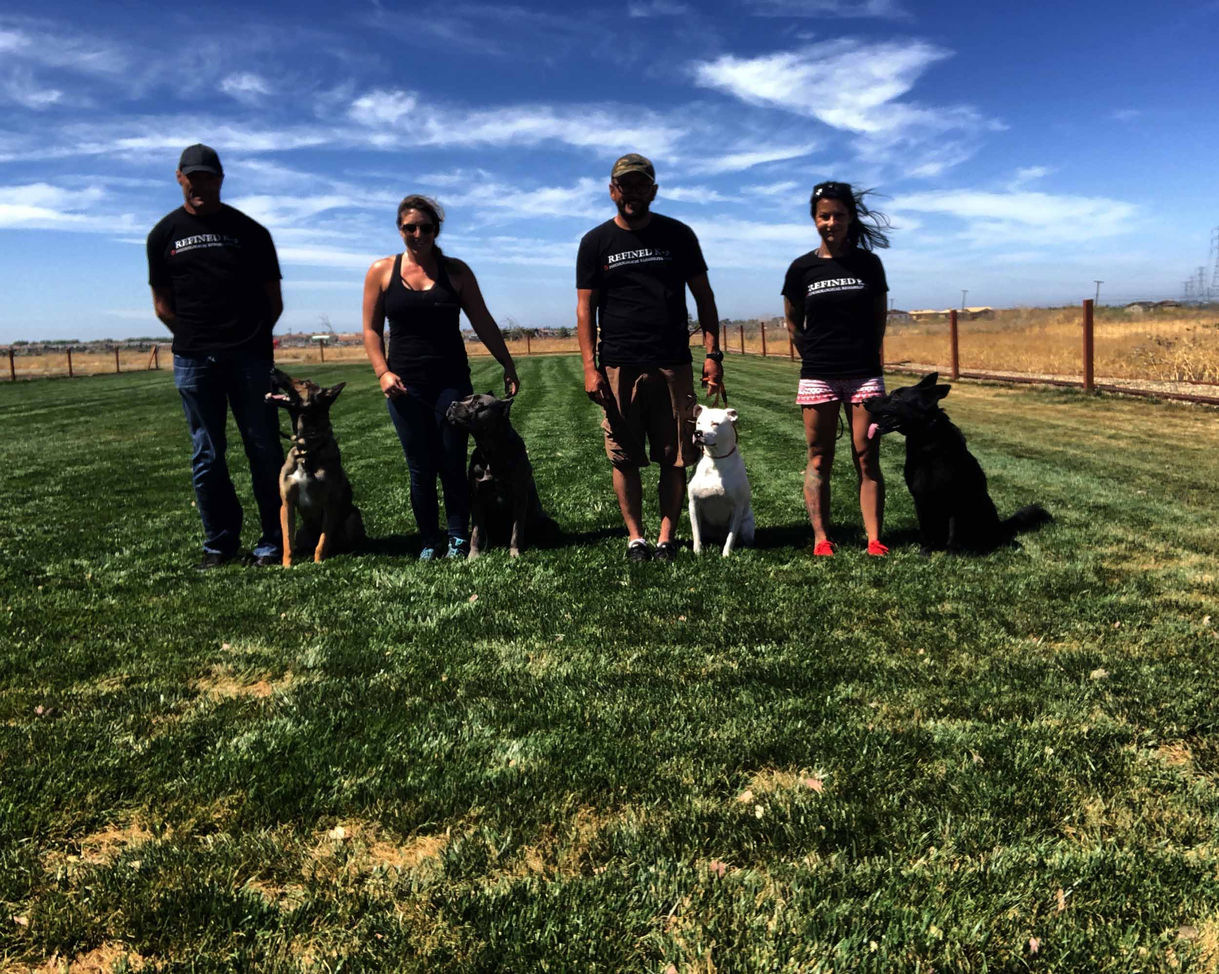
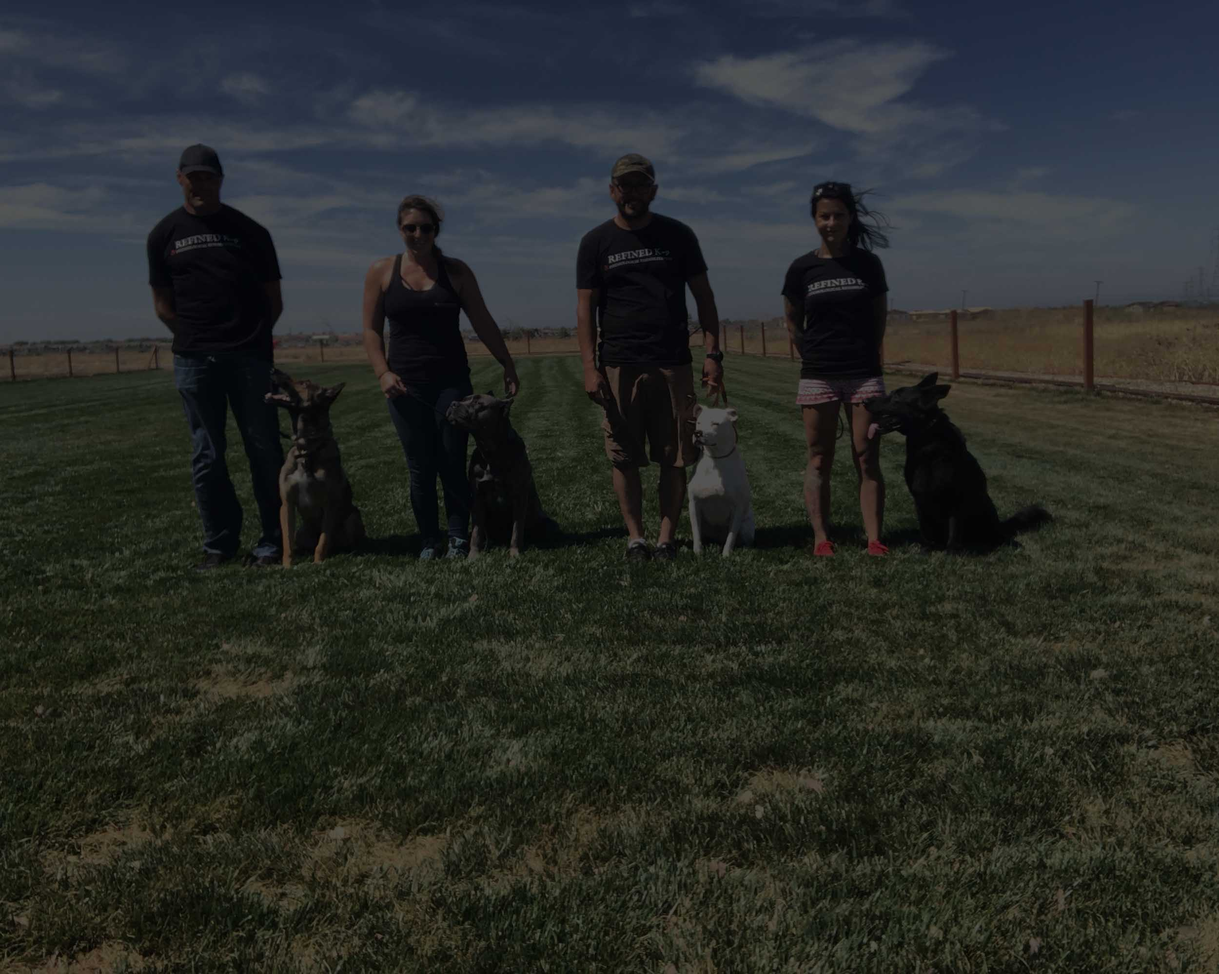
fix bg again

diff --git a/Misc/botb-2018.html b/Misc/botb-2018.html
@@ -62,7 +62,7 @@ div[style*="margin: 16px 0;"] { margin: 0 !important; }
 
 <table border="0" cellpadding="0" cellspacing="0" width="100%">
     <tr>
-        <td align="center" valign="top" width="100%" background="bg.jpg" bgcolor="#3b4a69" style="background: #3b4a69 url('bg.jpg'); background-size: cover; padding: 50px 15px 0 15px;" class="mobile-padding">
+        <td align="center" valign="top" width="100%" background="bg.jpg" bgcolor="#3b4a69" style="background: #3b4a69 url('https://refinedk9.com/email/Misc/botb-bg.jpg'); background-size: cover; padding: 50px 15px 0 15px;" class="mobile-padding">
             <!--[if (gte mso 9)|(IE)]>
             <table align="center" border="0" cellspacing="0" cellpadding="0" width="600">
             <tr>
